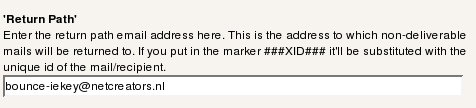
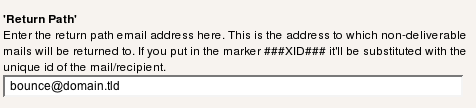
Updated documentation

Changed region(s): [[0.0, 0.75, 0.3529, 0.8611]]

diff --git a/Documentation/Configuration/ConfiguringTheAnalysisOfReturnedMails/Index.rst b/Documentation/Configuration/ConfiguringTheAnalysisOfReturnedMails/Index.rst
@@ -18,14 +18,12 @@
 Configuring the analysis of returned mails
 ------------------------------------------
 
-There are probably many ways to configure analysis of returned mails.
-We propose an approach based on open Source program fetchmail. For
-more information about fetchmail, see `The fetchmail home page
-<http://catb.org/~esr/fetchmail/>`_ .
+The analysis of the return mails can now be set in the scheduler job.
+It needs the `PHP-IMAP <http://nl3.php.net/manual/en/book.imap.php>`_
+extension.
 
-#. Create a mailbox (popbox) for the returned mails, for example:
-   “bounce@pophost.org”. This mailbox should be located on the same
-   machine as the TYPO3 installation.
+#. Create a mailbox (IMAP or POP) for the returned mails, for example:
+   “bounce@domain.tld”.
 
 #. Use the Module Configuration function of the Direct mail module to
    configure this same address in the 'Return Path' field in Page TS
@@ -33,49 +31,22 @@ more information about fetchmail, see `The fetchmail home page
 
    |img-17|
 
-#. fetchmail can read a mailbox and then do something with these mails.
-   We are going to use fetchmail to “pipe” the returned mails to the
-   “returnmail.phpsh” script. fetchmail uses a configuration file that
-   should be outside the web accessible folder. For examble, it may be
-   positionned on the root: /root/.fetchmailrc. ls -l of this file may
-   look like this:
+#. Now create a task **Analyze bounce mail** in the scheduler module.
 
-   ::
+#. There you can set following parameter:
 
-      -rwx--x---  1 root root 208 Jun 20 12:50 /root/.fetchmailrc
+   ======================================    ====================================
+   Parameter                                 Description
+   ======================================    ====================================
+   Server URL/IP                             The URL or IP of the mail server
+   Port number                               Port of the mail server
+   Username                                  Bounce mail address
+   Password                                  Password of the bounce mail account
+   Type of mailserver                        IMAP or POP
+   Number of bounce mail to be processed     How many mail to be fetch in a cycle
+   ======================================    ====================================
 
-#. Insert the following line in file .fetchmailrc, substituting variables
-   my.pophost.org with the name of your mailserver, and username-of-
-   popbox and password-of-popbox with the name and password of your
-   bounce mailbox:
-
-   ::
-
-      poll my.pophost.org timeout 40 username "username-of-popbox" password "password-of-popbox" flush mda "/path/to/your/TYPO3/installation/typo3conf/ext/direct_mail/res/scripts/returnmail.phpsh"
-
-#. Note that the absolute path to the script must be specified. If the
-   extension is installed as a global extension, substitute typo3conf
-   with typo3 in the above path. Make sure that script returnmail.phpsh
-   has sufficient permissions to be run by the server. Note also that
-   returnmail.phpsh is a shell script and requires the availability of a
-   PHP binary, "/usr/bin/php”. Depending on your server configuration,
-   you may have to edit the first line of the script to refer to the
-   location of the PHP binary.
-
-#. If you have configured multiple Direct Mail folders each with its own
-   return mailbox, you will need a similar line for each mailbox.
-
-#. Use the command “crontab -e” (as root), or cPanel tool, to add the
-   following cron task. You need only one, even if you have configured
-   multiple folders of Direct Mail. This example setting will run the
-   cron task every 10 minutes:
-
-   ::
-
-      */10 * * * * fetchmail> /dev/null
-
-#. Use the Direct Mail module to send a newsletter to a bouncing address.
-   Use the Statistics function of the module to verify that the bounced
-   mail is accounted for in the displayed statistics.
+#. If you have more than one bounce account, you have to create a new scheduler
+   task for every bounce mail account.
 
 
